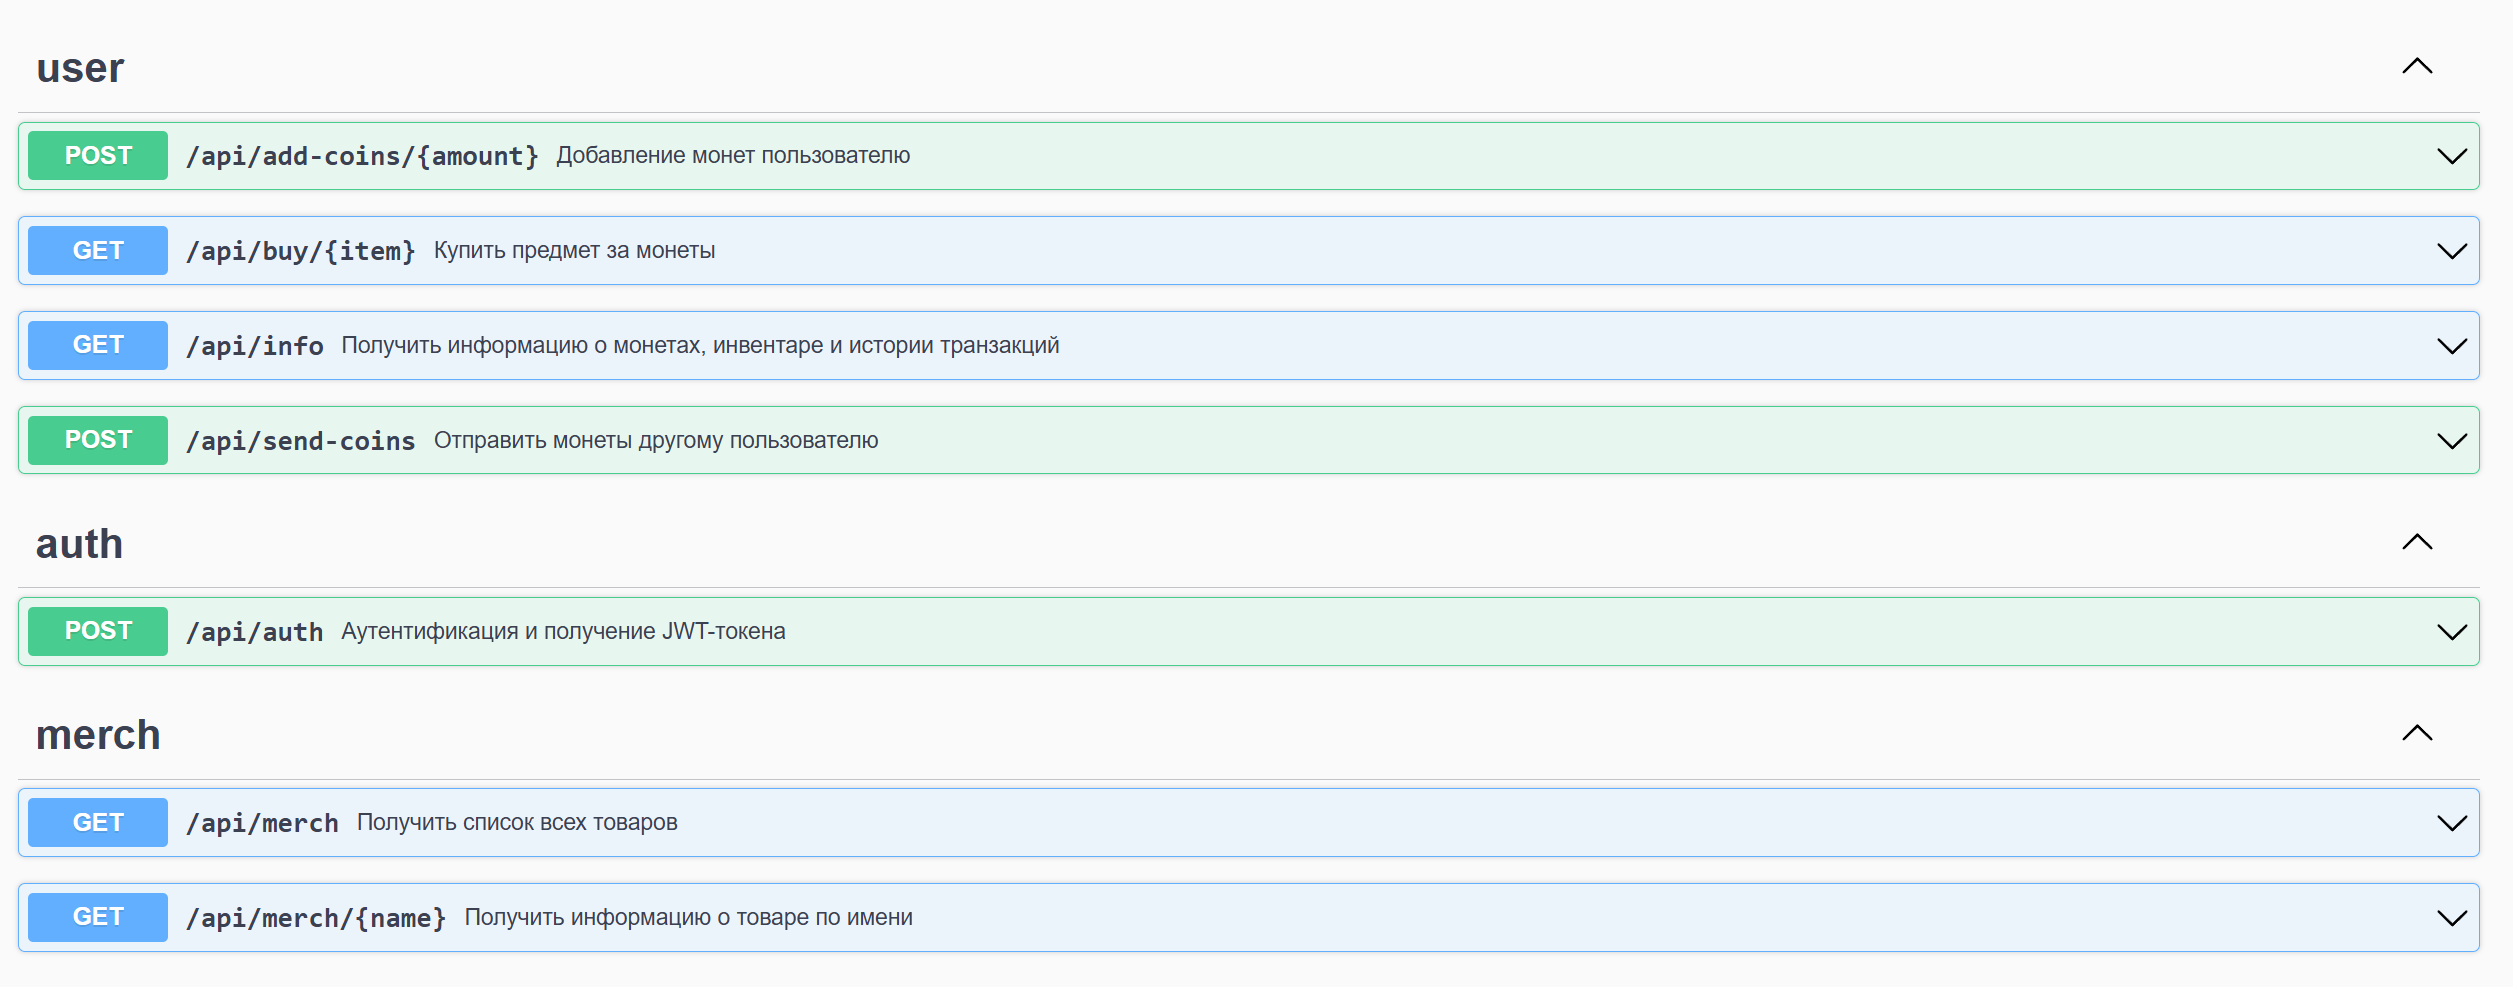
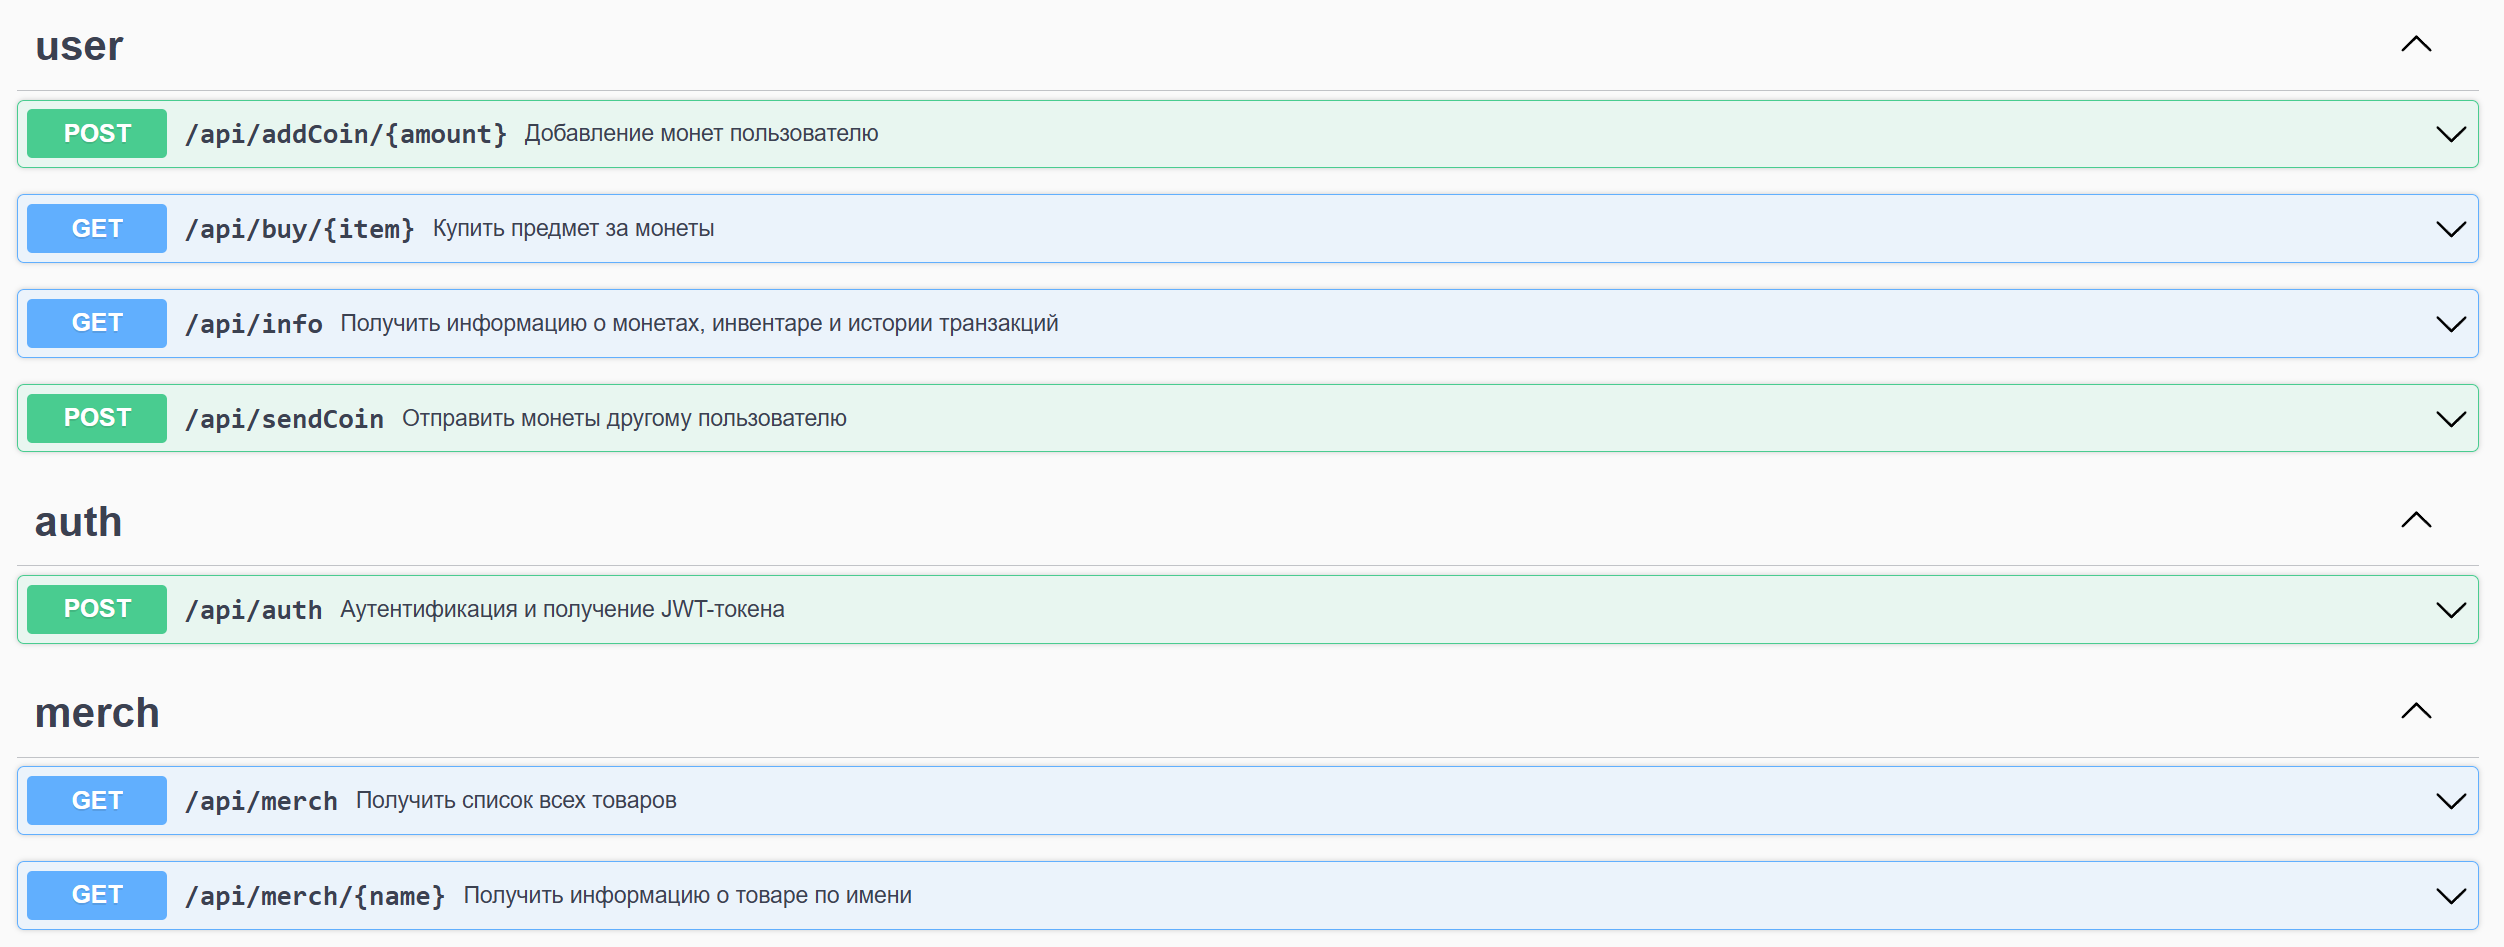
chore: rename endpoint

diff --git a/internal/handlers/user_handler.go b/internal/handlers/user_handler.go
@@ -78,7 +78,7 @@ func (h *UserHandlerImpl) BuyItem(c *fiber.Ctx) error {
 // @Failure 401 {object} dto.ErrorResponse "Неавторизован"
 // @Failure 400 {object} dto.ErrorResponse "Неверный запрос"
 // @Failure 500 {object} dto.ErrorResponse "Внутренняя ошибка сервера"
-// @Router /api/send-coins [post]
+// @Router /api/sendCoin [post]
 func (h *UserHandlerImpl) SendCoins(c *fiber.Ctx) error {
 	username, ok := c.Locals("username").(string)
 	if !ok {
@@ -147,7 +147,7 @@ func (h *UserHandlerImpl) GetInfo(c *fiber.Ctx) error {
 // @Failure 400 {object} dto.ErrorResponse "Invalid amount parameter"
 // @Failure 401 {object} dto.ErrorResponse "Unauthorized"
 // @Failure 500 {object} dto.ErrorResponse "Failed to add coins"
-// @Router /api/add-coins/{amount} [post]
+// @Router /api/addCoin/{amount} [post]
 func (h *UserHandlerImpl) AddCoins(c *fiber.Ctx) error {
 	amountStr := c.Params("amount")
 

diff --git a/docs/docs.go b/docs/docs.go
@@ -15,7 +15,7 @@ const docTemplate = `{
     "host": "{{.Host}}",
     "basePath": "{{.BasePath}}",
     "paths": {
-        "/api/add-coins/{amount}": {
+        "/api/addCoin/{amount}": {
             "post": {
                 "description": "Увеличивает баланс монет у пользователя, если передан корректный ` + "`" + `amount` + "`" + `.",
                 "consumes": [
@@ -283,7 +283,7 @@ const docTemplate = `{
                 }
             }
         },
-        "/api/send-coins": {
+        "/api/sendCoin": {
             "post": {
                 "description": "Позволяет пользователю отправить монеты другому пользователю.",
                 "consumes": [

diff --git a/internal/routes/routes.go b/internal/routes/routes.go
@@ -29,7 +29,7 @@ func SetupRoutes(
 	protected := api.Group("/", middleware.AuthMiddleware(cfg))
 
 	protected.Get("/info", userHandler.GetInfo)
-	protected.Post("/send-coins", userHandler.SendCoins)
+	protected.Post("/sendCoin", userHandler.SendCoins)
 	protected.Get("/buy/:item", userHandler.BuyItem)
-	protected.Post("/add-coins/:amount", userHandler.AddCoins)
+	protected.Post("/addCoin/:amount", userHandler.AddCoins)
 }
